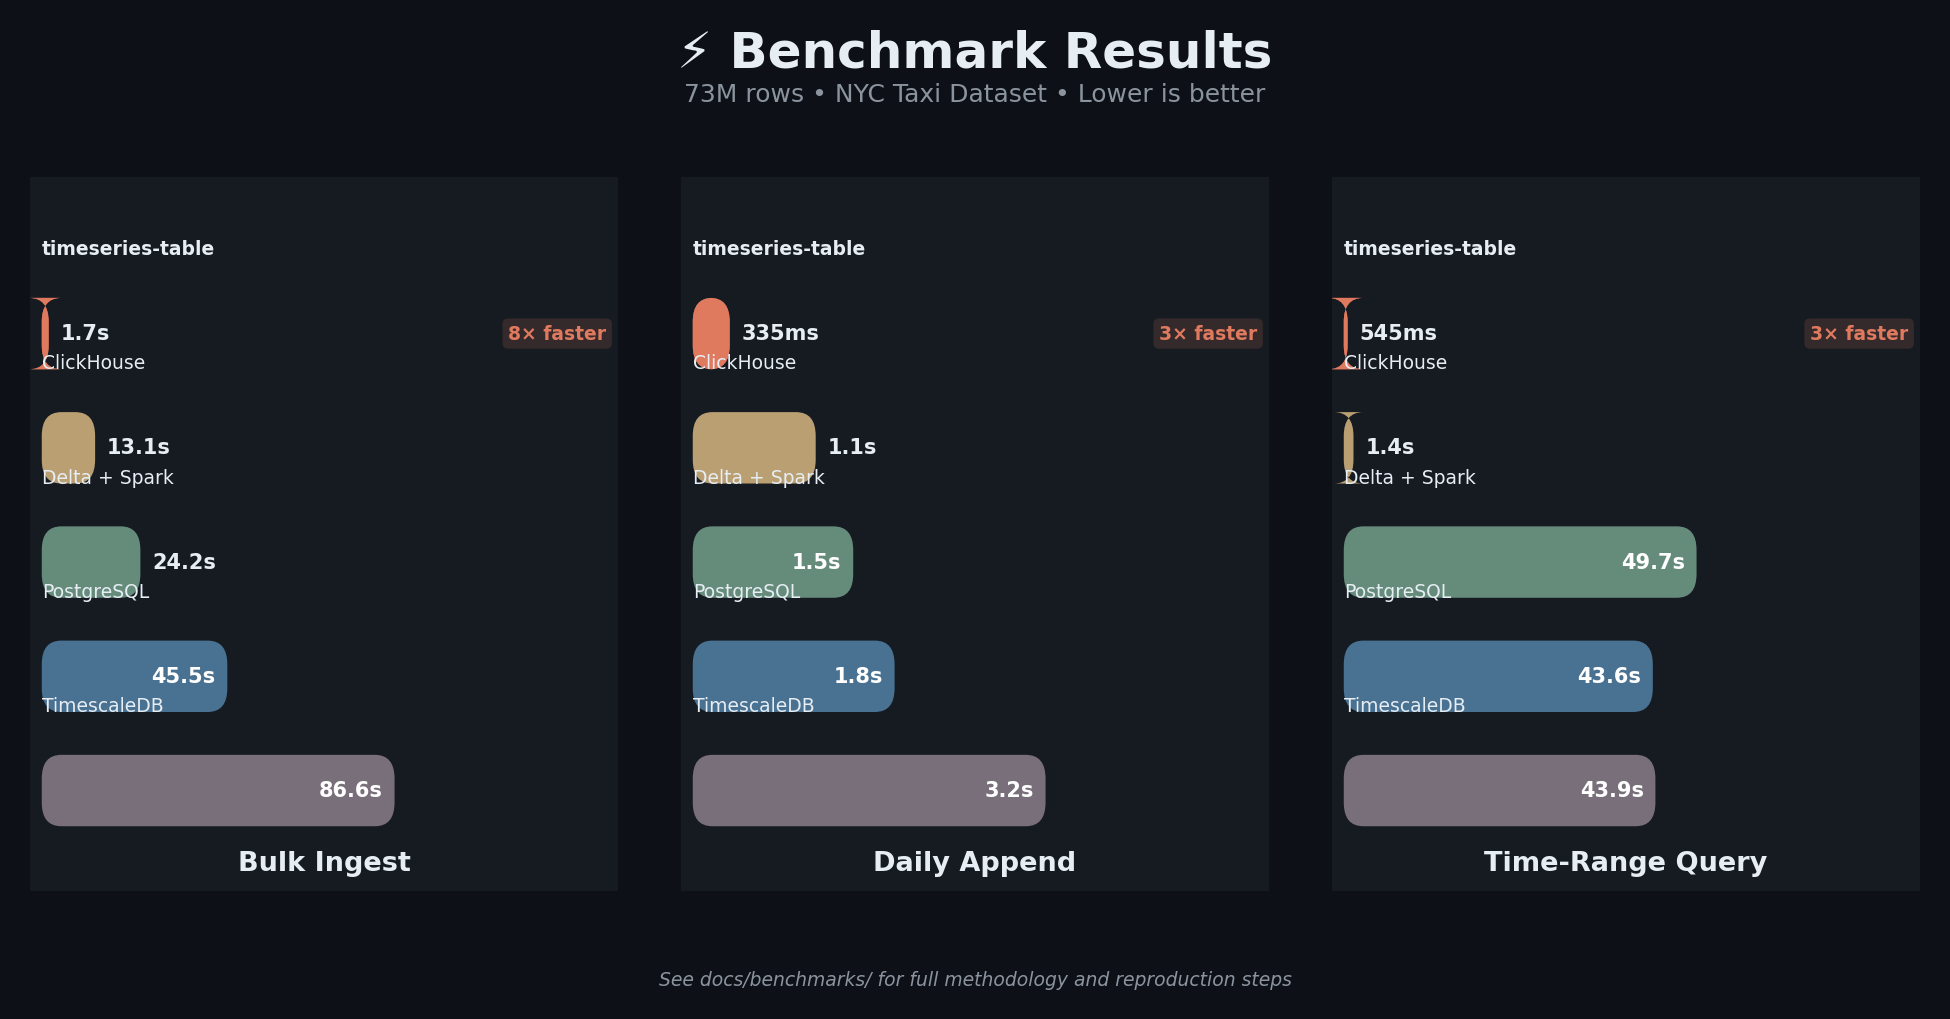
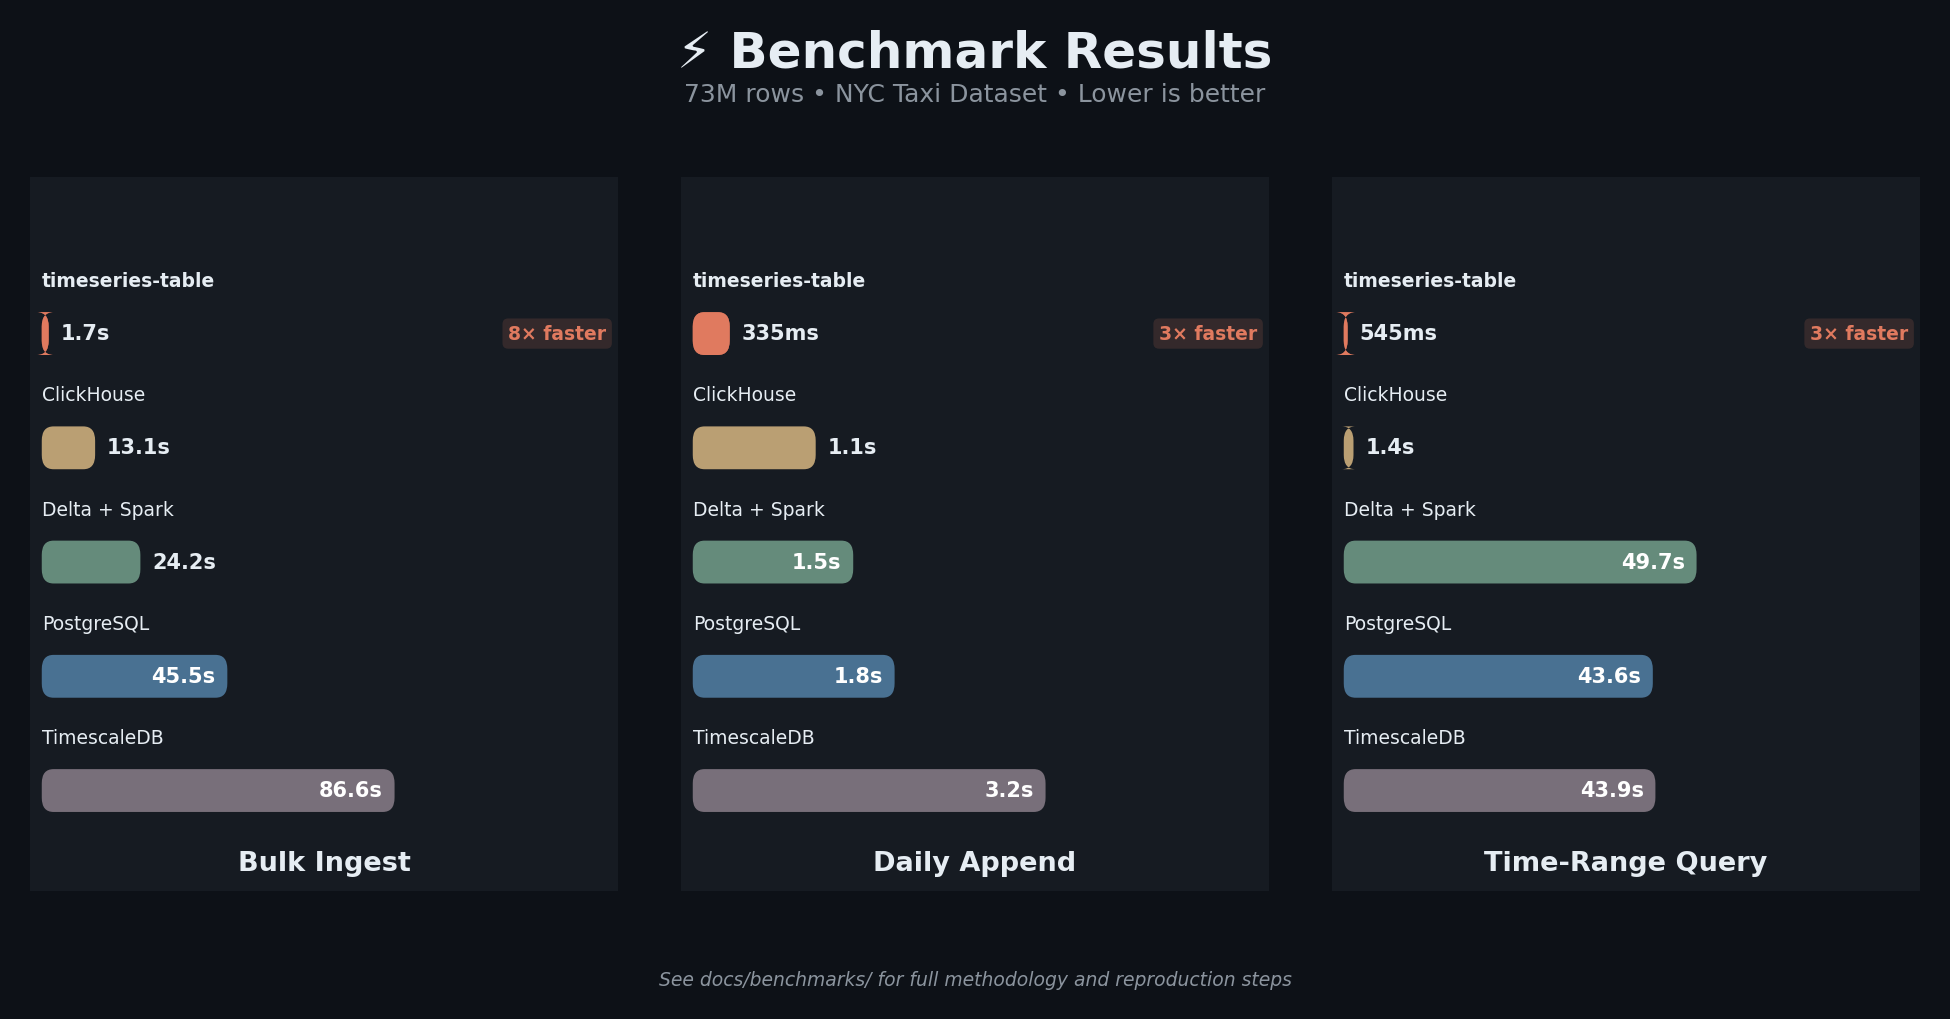
feat: enhance benchmark chart generation with improved configuration and visual elements

diff --git a/scripts/bench/generate_benchmark_chart_v2.py b/scripts/bench/generate_benchmark_chart_v2.py
@@ -2,13 +2,6 @@
 """
 Generate a modern, eye-catching benchmark comparison chart for README.
 
-Features:
-- Gradient bars with glow effects
-- Modern color palette
-- Clean typography
-- Speedup callouts
-- Card-style layout
-
 Usage:
     python scripts/bench/generate_benchmark_chart_v2.py
 
@@ -18,29 +11,104 @@ Output:
 """
 
 import matplotlib.pyplot as plt
-import matplotlib.patches as mpatches
 from matplotlib.patches import FancyBboxPatch
-import numpy as np
 from pathlib import Path
 
-# Use a clean sans-serif font
-plt.rcParams['font.family'] = 'sans-serif'
-plt.rcParams['font.sans-serif'] = ['DejaVu Sans', 'Arial', 'Helvetica', 'sans-serif']
+# =============================================================================
+# CONFIGURATION - Adjust these values to customize the chart
+# =============================================================================
 
-# Benchmark data (from actual results)
-SYSTEMS = ["timeseries-table", "ClickHouse", "Delta+Spark", "PostgreSQL", "TimescaleDB"]
-DISPLAY_NAMES = ["timeseries-table", "ClickHouse", "Delta + Spark", "PostgreSQL", "TimescaleDB"]
+# --- Figure Settings ---
+FIG_WIDTH = 14                    # Total figure width in inches
+FIG_HEIGHT = 7                    # Total figure height in inches
+FIG_DPI = 150                     # Output resolution
 
-# Modern gradient-friendly colors - softer, more muted palette
-COLORS_DARK = {
+# --- Title Settings ---
+TITLE_TEXT = "⚡ Benchmark Results"
+TITLE_FONTSIZE = 24
+TITLE_Y = 0.94                    # Vertical position (0-1)
+
+SUBTITLE_TEXT = "73M rows • NYC Taxi Dataset • Lower is better"
+SUBTITLE_FONTSIZE = 12
+SUBTITLE_Y = 0.89
+
+# --- Card (Panel) Settings ---
+CARD_LEFT_START = 0.05            # Left margin for first card
+CARD_SPACING = 0.31               # Horizontal spacing between cards
+CARD_WIDTH = 0.28                 # Width of each card
+CARD_BOTTOM = 0.12                # Bottom margin
+CARD_HEIGHT = 0.68                # Height of each card
+CARD_ROUNDING = 0.05              # Corner rounding for cards
+CARD_BORDER_WIDTH = 1             # Border line width
+
+# --- Bar Settings ---
+BAR_HEIGHT = 0.06                 # Height of each bar (in axes coords)
+BAR_SPACING = 0.16                # Vertical spacing between bars
+BAR_START_Y = 0.78                # Y position of first bar
+BAR_LEFT_MARGIN = 0.02            # Left margin for bars
+BAR_MAX_WIDTH = 0.60              # Maximum bar width (for longest bar)
+BAR_ROUNDING_FACTOR = 3           # Bar corner rounding (height / this value)
+BAR_HERO_ALPHA = 1.0              # Opacity for hero (winner) bar
+BAR_OTHER_ALPHA = 0.75            # Opacity for other bars
+
+# --- Label Settings ---
+LABEL_FONTSIZE = 9                # Font size for system names
+LABEL_OFFSET_Y = 0.01            # Vertical offset above bar
+TIME_FONTSIZE = 10                # Font size for time values
+TIME_INSIDE_THRESHOLD = 0.25      # Bar width threshold for inside/outside label
+TIME_INSIDE_OFFSET = 0.02         # Offset from bar end (inside)
+TIME_OUTSIDE_OFFSET = 0.02        # Offset from bar end (outside)
+
+# --- Speedup Badge Settings ---
+BADGE_FONTSIZE = 9
+BADGE_X = 0.98                    # X position (right side of card)
+BADGE_PADDING = 0.3               # Padding inside badge
+BADGE_ALPHA = 0.15                # Badge background opacity
+
+# --- Operation Title Settings ---
+OP_TITLE_FONTSIZE = 13
+OP_TITLE_Y = 0.02                 # Y position at bottom of card
+
+# --- Footer Settings ---
+FOOTER_TEXT = "See docs/benchmarks/ for full methodology and reproduction steps"
+FOOTER_FONTSIZE = 9
+FOOTER_Y = 0.03
+
+# --- Glow Effect Settings ---
+GLOW_ENABLED = True               # Enable/disable glow on hero bar
+GLOW_LAYERS = 3                   # Number of glow layers
+GLOW_ALPHA_MULTIPLIER = 0.15      # Alpha per layer
+
+# --- Colors (Dark Mode) ---
+DARK_BG_COLOR = "#0D1117"         # Main background
+DARK_CARD_BG = "#161B22"          # Card background
+DARK_TEXT_COLOR = "#E6EDF3"       # Primary text
+DARK_TEXT_SECONDARY = "#8B949E"   # Secondary text (subtitle, footer)
+DARK_GRID_COLOR = "#30363D"       # Card border color
+
+# --- Colors (Light Mode) ---
+LIGHT_BG_COLOR = "#FFFFFF"
+LIGHT_CARD_BG = "#F6F8FA"
+LIGHT_TEXT_COLOR = "#1F2328"
+LIGHT_TEXT_SECONDARY = "#656D76"
+LIGHT_GRID_COLOR = "#D0D7DE"
+
+# --- Bar Colors (primary, secondary for each system) ---
+# Softer, more muted palette
+BAR_COLORS = {
     "timeseries-table": ("#E07A5F", "#E8998D"),  # Terracotta (warm but muted)
-    "ClickHouse": ("#F2CC8F", "#F5DDB5"),        # Warm sand
-    "Delta+Spark": ("#81B29A", "#A3C4B1"),       # Sage green  
-    "PostgreSQL": ("#5B8FB9", "#89B4D4"),        # Soft blue
-    "TimescaleDB": ("#9A8C98", "#B5AAB8"),       # Muted purple/mauve
+    "ClickHouse":       ("#F2CC8F", "#F5DDB5"),  # Warm sand
+    "Delta+Spark":      ("#81B29A", "#A3C4B1"),  # Sage green  
+    "PostgreSQL":       ("#5B8FB9", "#89B4D4"),  # Soft blue
+    "TimescaleDB":      ("#9A8C98", "#B5AAB8"),  # Muted purple/mauve
 }
 
-# Data in milliseconds
+# --- System Data ---
+SYSTEMS = ["timeseries-table", "ClickHouse", "Delta+Spark", "PostgreSQL", "TimescaleDB"]
+DISPLAY_NAMES = ["timeseries-table", "ClickHouse", "Delta + Spark", "PostgreSQL", "TimescaleDB"]
+HERO_SYSTEM = "timeseries-table"  # Which system to highlight
+
+# --- Benchmark Data (in milliseconds) ---
 DATA = {
     "Bulk Ingest": {
         "timeseries-table": 1697,
@@ -65,6 +133,14 @@ DATA = {
     },
 }
 
+# =============================================================================
+# END CONFIGURATION
+# =============================================================================
+
+# Font setup
+plt.rcParams['font.family'] = 'sans-serif'
+plt.rcParams['font.sans-serif'] = ['DejaVu Sans', 'Arial', 'Helvetica', 'sans-serif']
+
 
 def format_time(ms: float) -> str:
     """Format milliseconds to human readable string."""
@@ -78,15 +154,17 @@ def draw_rounded_bar(ax, x, y, width, height, color, alpha=1.0, glow=False):
     if width <= 0:
         return
     
+    rounding = height / BAR_ROUNDING_FACTOR
+    
     # Glow effect for hero bar
-    if glow:
-        for i in range(3, 0, -1):
+    if glow and GLOW_ENABLED:
+        for i in range(GLOW_LAYERS, 0, -1):
             glow_bar = FancyBboxPatch(
                 (x, y - height/2), width, height,
-                boxstyle=f"round,pad=0,rounding_size={height/3}",
+                boxstyle=f"round,pad=0,rounding_size={rounding}",
                 facecolor=color,
                 edgecolor='none',
-                alpha=0.15 * (4-i),
+                alpha=GLOW_ALPHA_MULTIPLIER * (GLOW_LAYERS + 1 - i),
                 transform=ax.transData,
                 zorder=1
             )
@@ -95,7 +173,7 @@ def draw_rounded_bar(ax, x, y, width, height, color, alpha=1.0, glow=False):
     # Main bar
     bar = FancyBboxPatch(
         (x, y - height/2), width, height,
-        boxstyle=f"round,pad=0,rounding_size={height/3}",
+        boxstyle=f"round,pad=0,rounding_size={rounding}",
         facecolor=color,
         edgecolor='none',
         alpha=alpha,
@@ -111,50 +189,47 @@ def create_modern_chart(dark_mode=True):
     
     # Colors based on mode
     if dark_mode:
-        bg_color = "#0D1117"
-        card_bg = "#161B22"
-        text_color = "#E6EDF3"
-        text_secondary = "#8B949E"
-        grid_color = "#30363D"
+        bg_color = DARK_BG_COLOR
+        card_bg = DARK_CARD_BG
+        text_color = DARK_TEXT_COLOR
+        text_secondary = DARK_TEXT_SECONDARY
+        grid_color = DARK_GRID_COLOR
     else:
-        bg_color = "#FFFFFF"
-        card_bg = "#F6F8FA"
-        text_color = "#1F2328"
-        text_secondary = "#656D76"
-        grid_color = "#D0D7DE"
+        bg_color = LIGHT_BG_COLOR
+        card_bg = LIGHT_CARD_BG
+        text_color = LIGHT_TEXT_COLOR
+        text_secondary = LIGHT_TEXT_SECONDARY
+        grid_color = LIGHT_GRID_COLOR
     
-    fig = plt.figure(figsize=(14, 7), facecolor=bg_color)
+    fig = plt.figure(figsize=(FIG_WIDTH, FIG_HEIGHT), facecolor=bg_color)
     
     # Title area
-    fig.text(0.5, 0.94, "⚡ Benchmark Results", fontsize=24, fontweight='bold',
+    fig.text(0.5, TITLE_Y, TITLE_TEXT, fontsize=TITLE_FONTSIZE, fontweight='bold',
              color=text_color, ha='center', va='top')
-    fig.text(0.5, 0.89, "73M rows • NYC Taxi Dataset • Lower is better",
-             fontsize=12, color=text_secondary, ha='center', va='top')
+    fig.text(0.5, SUBTITLE_Y, SUBTITLE_TEXT,
+             fontsize=SUBTITLE_FONTSIZE, color=text_secondary, ha='center', va='top')
     
     operations = list(DATA.keys())
     
     # Create 3 card-style subplots
     for idx, op in enumerate(operations):
         # Position each "card"
-        card_left = 0.05 + idx * 0.31
-        card_width = 0.28
-        card_bottom = 0.12
-        card_height = 0.68
+        card_left = CARD_LEFT_START + idx * CARD_SPACING
         
-        ax = fig.add_axes([card_left, card_bottom, card_width, card_height])
+        ax = fig.add_axes([card_left, CARD_BOTTOM, CARD_WIDTH, CARD_HEIGHT])
         ax.set_facecolor(card_bg)
         
-        # Add rounded card border
+        # Remove spines
         for spine in ax.spines.values():
             spine.set_visible(False)
         
         # Card background with subtle border
         card_rect = FancyBboxPatch(
             (0, 0), 1, 1,
-            boxstyle="round,pad=0.02,rounding_size=0.05",
+            boxstyle=f"round,pad=0.02,rounding_size={CARD_ROUNDING}",
             facecolor=card_bg,
             edgecolor=grid_color,
-            linewidth=1,
+            linewidth=CARD_BORDER_WIDTH,
             transform=ax.transAxes,
             zorder=0
         )
@@ -163,56 +238,70 @@ def create_modern_chart(dark_mode=True):
         values = [DATA[op][sys] for sys in SYSTEMS]
         max_val = max(values)
         
-        # Bar settings
-        bar_height = 0.10
-        bar_spacing = 0.16
-        start_y = 0.78
-        
         # Draw bars
         for i, (sys, val, name) in enumerate(zip(SYSTEMS, values, DISPLAY_NAMES)):
-            y = start_y - i * bar_spacing
-            bar_width = (val / max_val) * 0.60
+            y = BAR_START_Y - i * BAR_SPACING
+            bar_width = (val / max_val) * BAR_MAX_WIDTH
             
-            color = COLORS_DARK[sys][0]
-            is_hero = (sys == "timeseries-table")
+            color = BAR_COLORS[sys][0]
+            is_hero = (sys == HERO_SYSTEM)
             
-            draw_rounded_bar(ax, 0.02, y, bar_width, bar_height, color, 
-                           alpha=1.0 if is_hero else 0.75,
-                           glow=is_hero)
+            draw_rounded_bar(
+                ax, BAR_LEFT_MARGIN, y, bar_width, BAR_HEIGHT, color,
+                alpha=BAR_HERO_ALPHA if is_hero else BAR_OTHER_ALPHA,
+                glow=is_hero
+            )
             
-            # System name (left aligned, more space above bar)
-            ax.text(0.02, y + bar_height/2 + 0.055, name, fontsize=9,
-                   color=text_color, ha='left', va='bottom',
-                   fontweight='bold' if is_hero else 'normal',
-                   transform=ax.transAxes)
+            # System name (left aligned, above bar)
+            ax.text(
+                BAR_LEFT_MARGIN, y + BAR_HEIGHT/2 + LABEL_OFFSET_Y, name,
+                fontsize=LABEL_FONTSIZE,
+                color=text_color, ha='left', va='bottom',
+                fontweight='bold' if is_hero else 'normal',
+                transform=ax.transAxes
+            )
             
             # Time value (at end of bar or outside)
             time_str = format_time(val)
-            if bar_width > 0.25:
-                ax.text(0.02 + bar_width - 0.02, y, time_str, fontsize=10,
-                       color='white', ha='right', va='center',
-                       fontweight='bold', transform=ax.transAxes)
+            if bar_width > TIME_INSIDE_THRESHOLD:
+                ax.text(
+                    BAR_LEFT_MARGIN + bar_width - TIME_INSIDE_OFFSET, y, time_str,
+                    fontsize=TIME_FONTSIZE,
+                    color='white', ha='right', va='center',
+                    fontweight='bold', transform=ax.transAxes
+                )
             else:
-                ax.text(0.02 + bar_width + 0.02, y, time_str, fontsize=10,
-                       color=text_color, ha='left', va='center',
-                       fontweight='bold', transform=ax.transAxes)
+                ax.text(
+                    BAR_LEFT_MARGIN + bar_width + TIME_OUTSIDE_OFFSET, y, time_str,
+                    fontsize=TIME_FONTSIZE,
+                    color=text_color, ha='left', va='center',
+                    fontweight='bold', transform=ax.transAxes
+                )
             
             # Speedup badge for hero
             if is_hero and i == 0:
                 speedup = values[1] / val  # vs second place
                 badge_text = f"{speedup:.0f}× faster"
-                ax.text(0.98, y, badge_text, fontsize=9,
-                       color=COLORS_DARK["timeseries-table"][0], 
-                       ha='right', va='center',
-                       fontweight='bold', transform=ax.transAxes,
-                       bbox=dict(boxstyle='round,pad=0.3', 
-                                facecolor=COLORS_DARK["timeseries-table"][0],
-                                alpha=0.15, edgecolor='none'))
+                ax.text(
+                    BADGE_X, y, badge_text,
+                    fontsize=BADGE_FONTSIZE,
+                    color=BAR_COLORS[HERO_SYSTEM][0], 
+                    ha='right', va='center',
+                    fontweight='bold', transform=ax.transAxes,
+                    bbox=dict(
+                        boxstyle=f'round,pad={BADGE_PADDING}', 
+                        facecolor=BAR_COLORS[HERO_SYSTEM][0],
+                        alpha=BADGE_ALPHA, edgecolor='none'
+                    )
+                )
         
         # Operation title at bottom
-        ax.text(0.5, 0.02, op, fontsize=13, fontweight='bold',
-               color=text_color, ha='center', va='bottom',
-               transform=ax.transAxes)
+        ax.text(
+            0.5, OP_TITLE_Y, op,
+            fontsize=OP_TITLE_FONTSIZE, fontweight='bold',
+            color=text_color, ha='center', va='bottom',
+            transform=ax.transAxes
+        )
         
         ax.set_xlim(0, 1)
         ax.set_ylim(0, 1)
@@ -220,8 +309,10 @@ def create_modern_chart(dark_mode=True):
         ax.set_yticks([])
     
     # Footer
-    fig.text(0.5, 0.03, "See docs/benchmarks/ for full methodology and reproduction steps",
-             fontsize=9, color=text_secondary, ha='center', style='italic')
+    fig.text(
+        0.5, FOOTER_Y, FOOTER_TEXT,
+        fontsize=FOOTER_FONTSIZE, color=text_secondary, ha='center', style='italic'
+    )
     
     return fig
 
@@ -233,16 +324,20 @@ def main():
     # Dark mode version
     fig_dark = create_modern_chart(dark_mode=True)
     output_dark = output_dir / "benchmark-chart.png"
-    fig_dark.savefig(output_dark, dpi=150, bbox_inches='tight',
-                     facecolor='#0D1117', edgecolor='none', pad_inches=0.2)
+    fig_dark.savefig(
+        output_dark, dpi=FIG_DPI, bbox_inches='tight',
+        facecolor=DARK_BG_COLOR, edgecolor='none', pad_inches=0.2
+    )
     plt.close(fig_dark)
     print(f"✓ Saved dark mode: {output_dark}")
     
     # Light mode version
     fig_light = create_modern_chart(dark_mode=False)
     output_light = output_dir / "benchmark-chart-light.png"
-    fig_light.savefig(output_light, dpi=150, bbox_inches='tight',
-                      facecolor='white', edgecolor='none', pad_inches=0.2)
+    fig_light.savefig(
+        output_light, dpi=FIG_DPI, bbox_inches='tight',
+        facecolor='white', edgecolor='none', pad_inches=0.2
+    )
     plt.close(fig_light)
     print(f"✓ Saved light mode: {output_light}")
 
